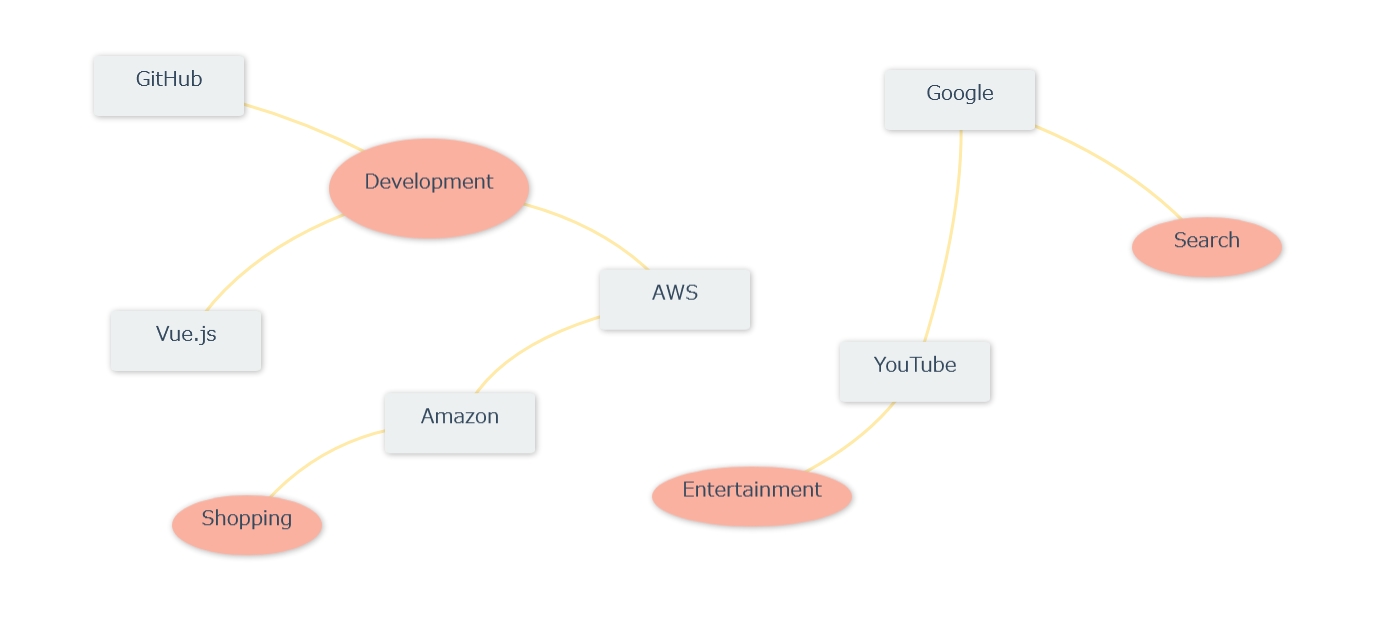
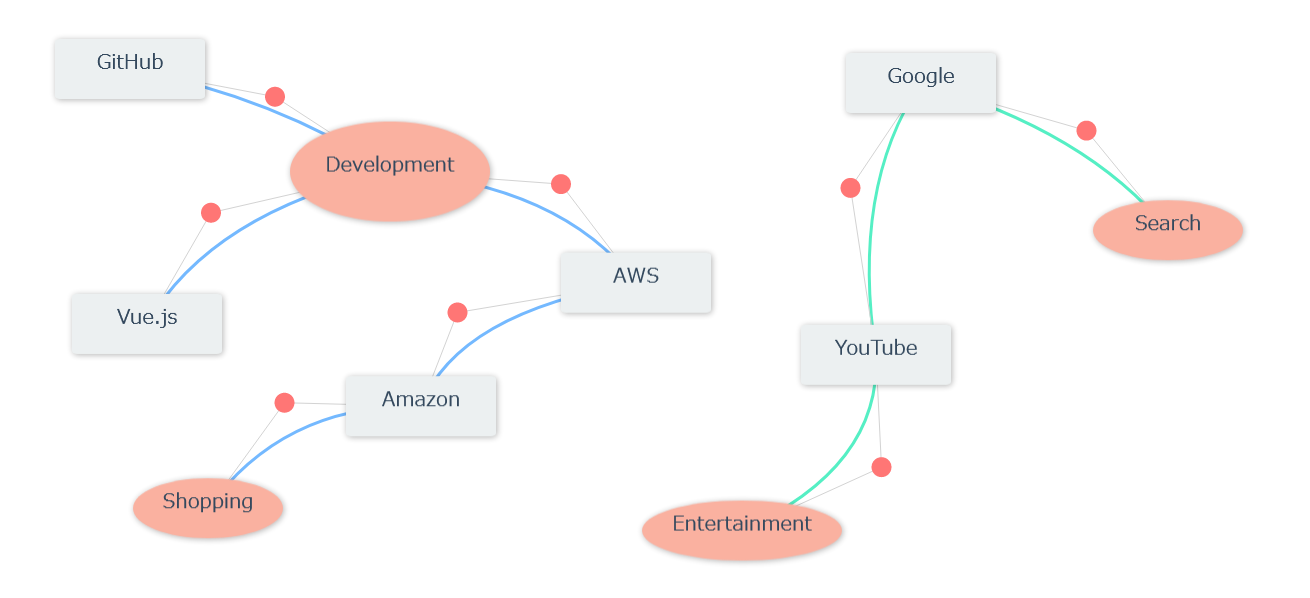
Update sample data

diff --git a/src/data.js b/src/data.js
@@ -43,7 +43,7 @@ export default {
       width: 200,
       height: 60,
       shape: "ellipse",
-      point: { x: 683, y: 491.5452292961393 }
+      point: { x: 712, y: 542.5452292961393 }
     },
     {
       id: "167efae64ea50b14",
@@ -80,49 +80,57 @@ export default {
       id: "167efaaddec32dd0",
       source: "167efaa2c59c27a1",
       destination: "167efa699c7863ac",
-      point: { x: 1156.5, y: 172.62461249002126 }
+      point: { x: 1156.5, y: 172.62461249002126 },
+      color: "#55efc4"
     },
     {
       id: "167efabd659483de",
       source: "167efabc40ee0852",
       destination: "167efa988e882161",
-      point: { x: 345, y: 138.74688965089885 }
+      point: { x: 345, y: 138.74688965089885 },
+      color: "#74b9ff"
     },
     {
       id: "167efabe6bfc5f86",
       source: "167efabc40ee0852",
       destination: "167efa7fc5d2f8d6",
-      point: { x: 281, y: 254.73236332876465 }
+      point: { x: 281, y: 254.73236332876465 },
+      color: "#74b9ff"
     },
     {
       id: "167efae7330e886a",
       source: "167efae64ea50b14",
       destination: "167efae23b74ae81",
-      point: { x: 903.5, y: 474.16118118550173 }
+      point: { x: 951.5, y: 509.16118118550173 },
+      color: "#55efc4"
     },
     {
       id: "167efae7f84c412e",
       source: "167efae64ea50b14",
       destination: "167efaa2c59c27a1",
-      point: { x: 999.5, y: 234.90269774736257 }
+      point: { x: 920.5, y: 229.90269774736257 },
+      color: "#55efc4"
     },
     {
       id: "167efaf767b32352",
       source: "167efaf41e0cc6f2",
       destination: "167efaefb4058b44",
-      point: { x: 354.5, y: 444.7362925785632 }
+      point: { x: 354.5, y: 444.7362925785632 },
+      color: "#74b9ff"
     },
     {
       id: "167efafb77b76f76",
       source: "167efafa9d4b4dbc",
       destination: "167efabc40ee0852",
-      point: { x: 631, y: 226.1104724696181 }
+      point: { x: 631, y: 226.1104724696181 },
+      color: "#74b9ff"
     },
     {
       id: "167efafd0d253d23",
       source: "167efaf41e0cc6f2",
       destination: "167efafa9d4b4dbc",
-      point: { x: 526.5, y: 354.4701429988721 }
+      point: { x: 527.5, y: 354.4701429988721 },
+      color: "#74b9ff"
     }
   ]
 };
